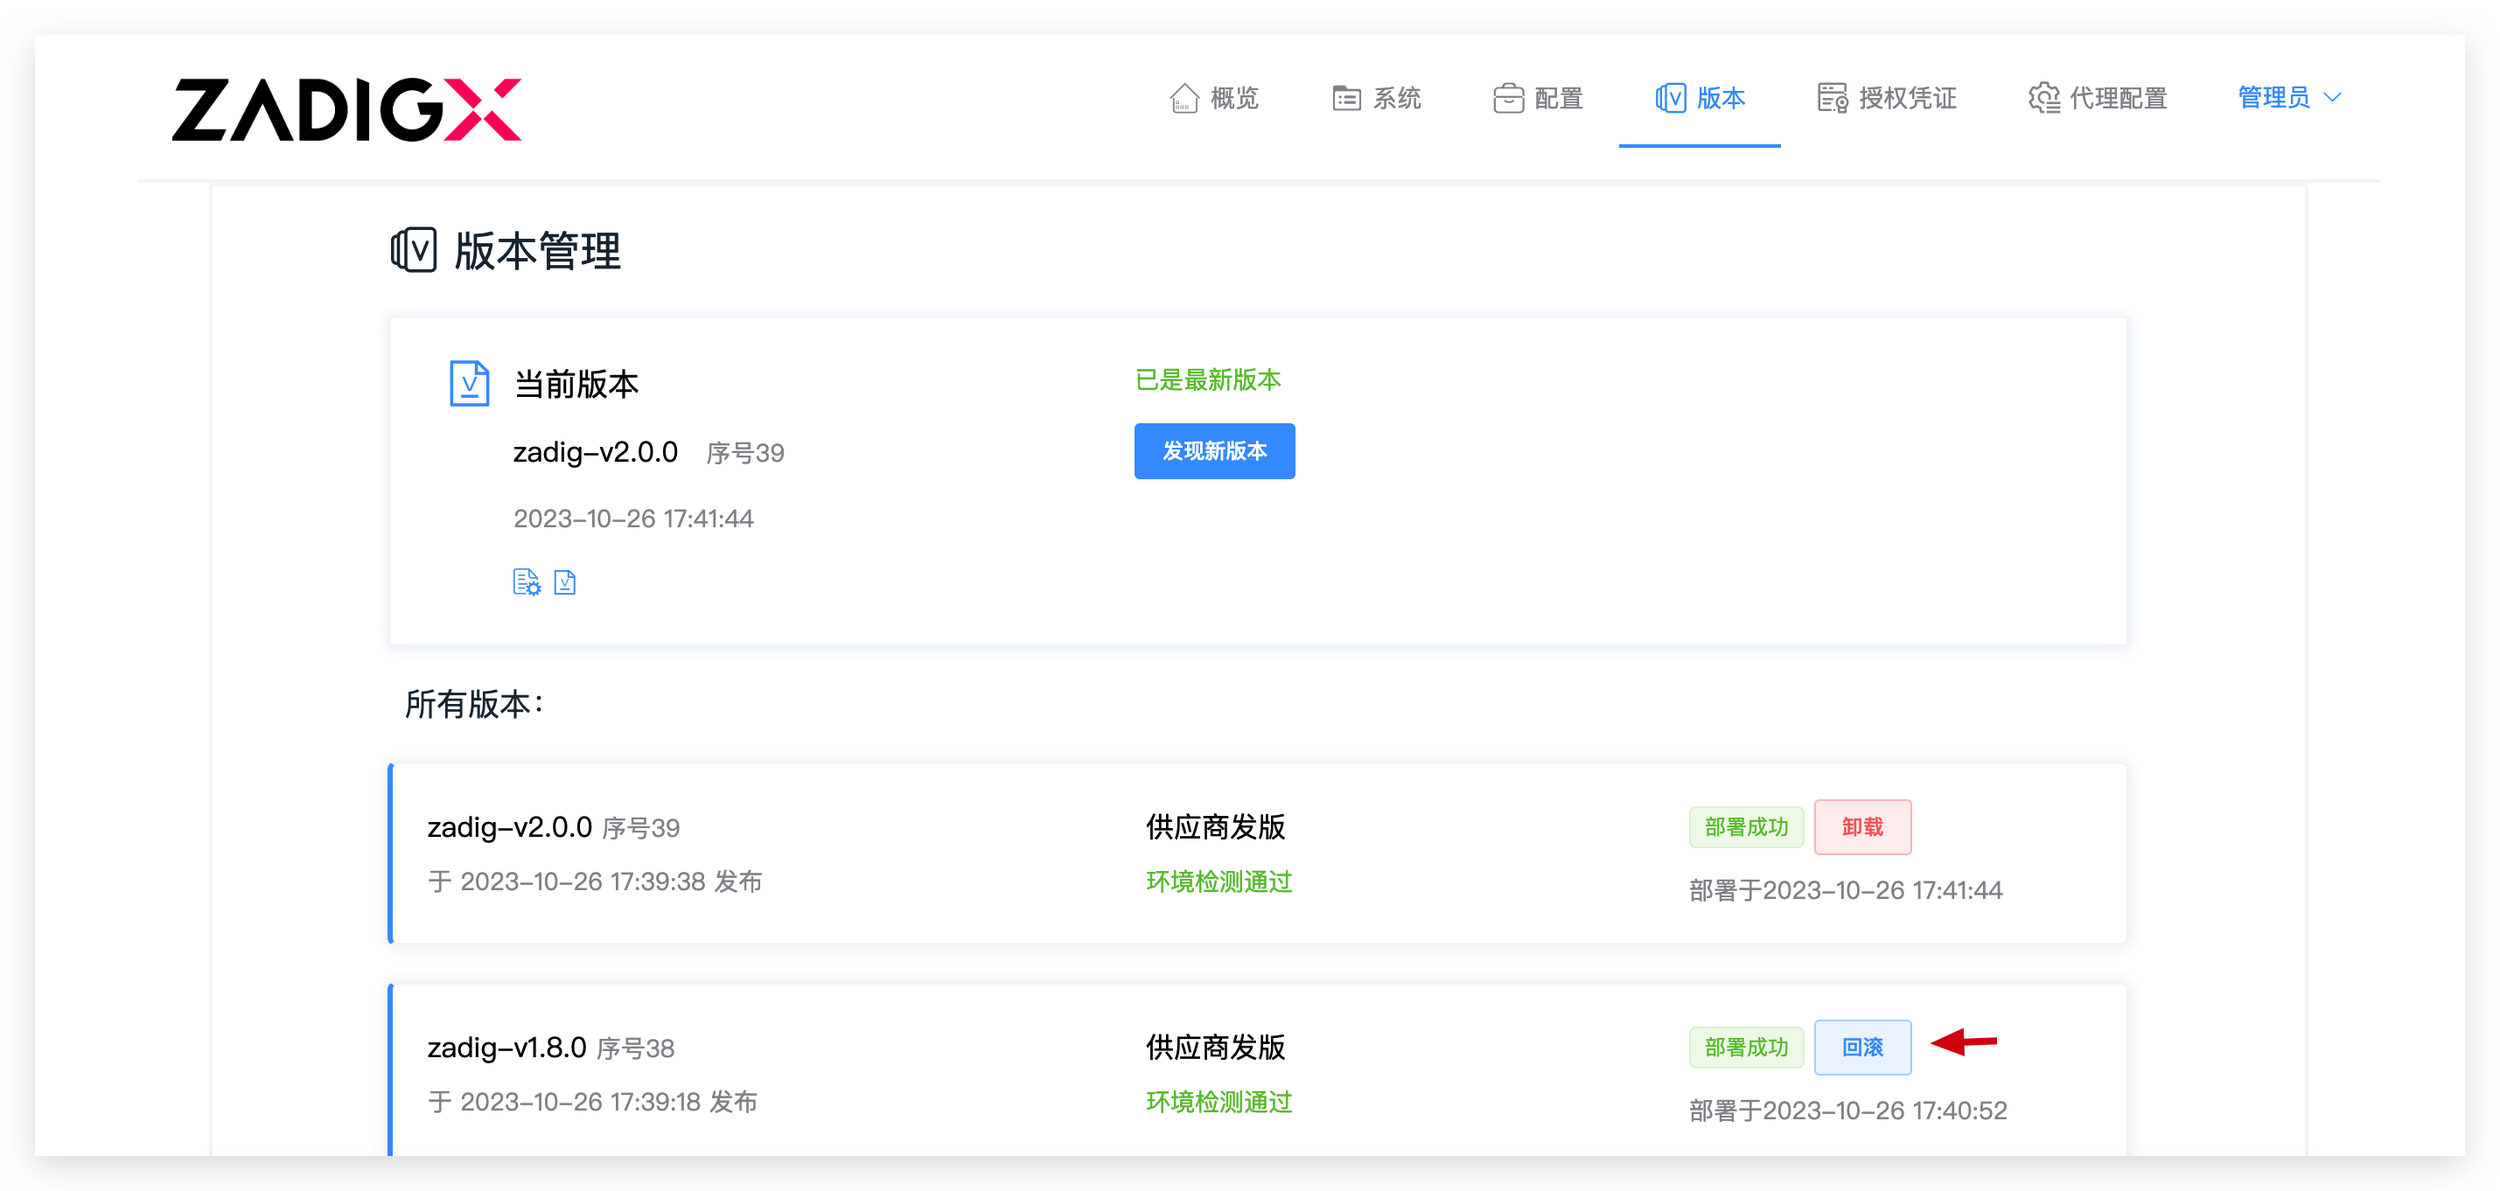
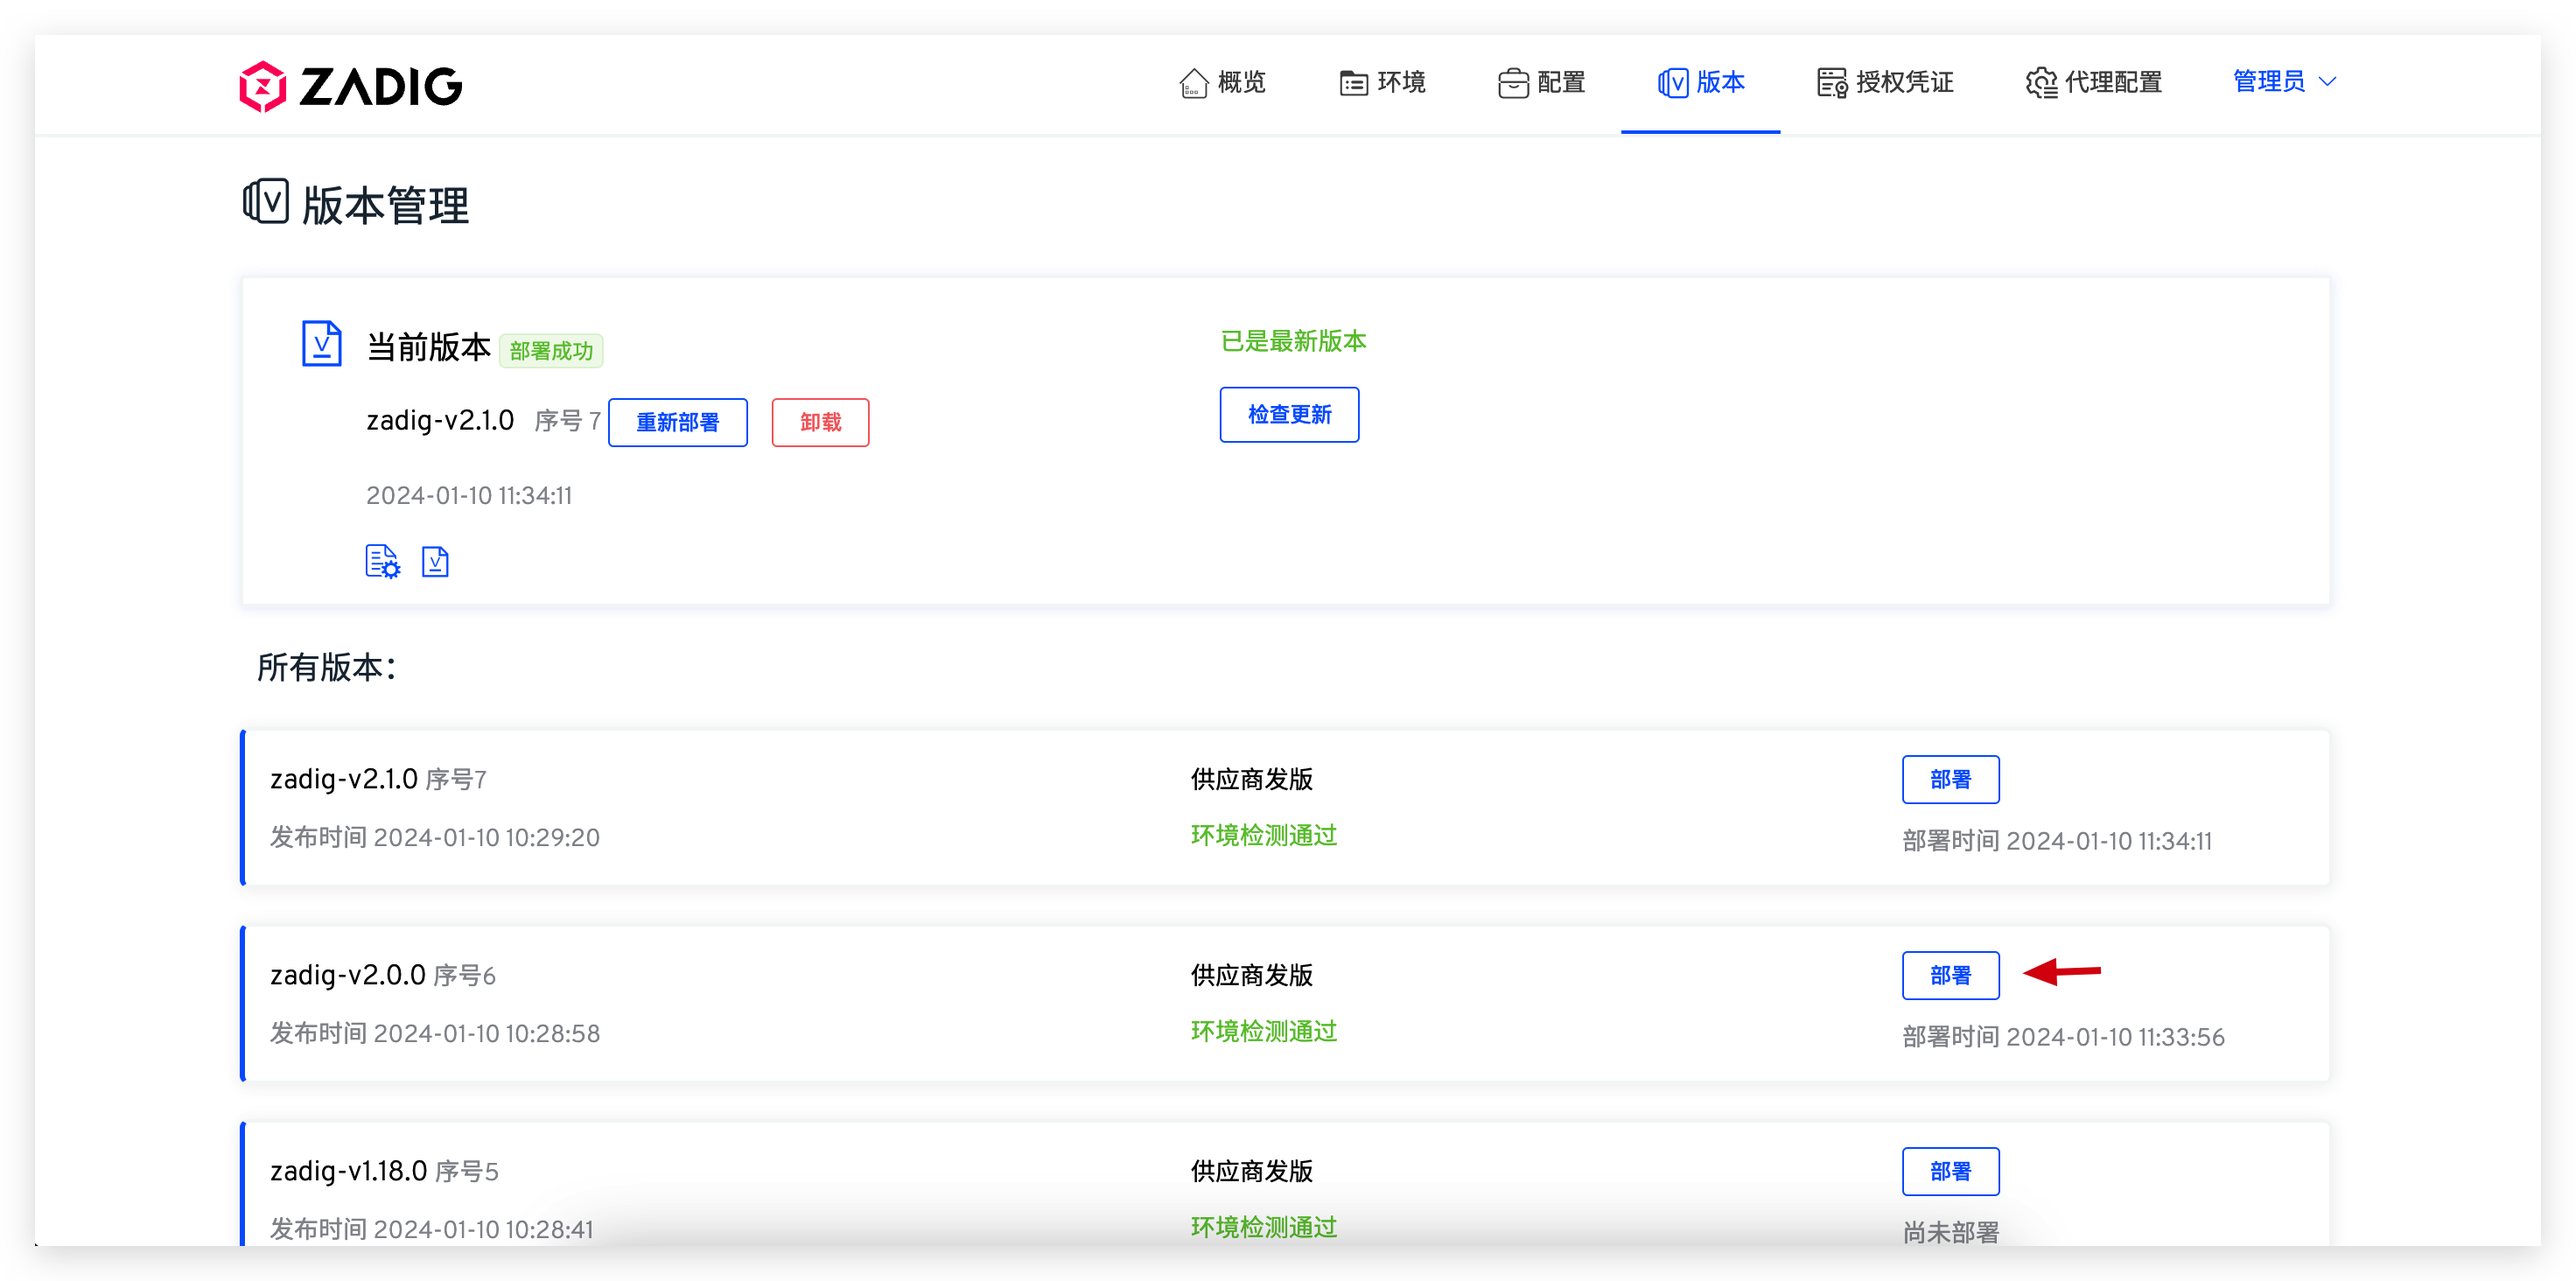
update rollback img

diff --git a/Zadig v2.1.0/02.运维手册/02.基于 K8s 正式运维/02.install.md b/Zadig v2.1.0/02.运维手册/02.基于 K8s 正式运维/02.install.md
@@ -66,7 +66,7 @@ plutus customer installation completed in 36 seconds
 
 「供应商维护配置」权限开放配置方式，如下图所示：
 
-![配置授权凭证](../../../_images/install_customer_210_3.png)
+![配置授权凭证](../../../_images/install_customer_211_3.png)
 
 勾选配置后点击保存即可。
 
@@ -163,7 +163,7 @@ plutus customer installation completed in 36 seconds
 
 ### 步骤 2：执行回滚
 
-访问客户控制台 > `版本`，选择要回滚的目标版本后点击`回滚`。
+访问客户控制台 > `版本`，选择要回滚的目标版本后点击`部署`。
 
 ![安装](../../../_images/rollback.png)
 
